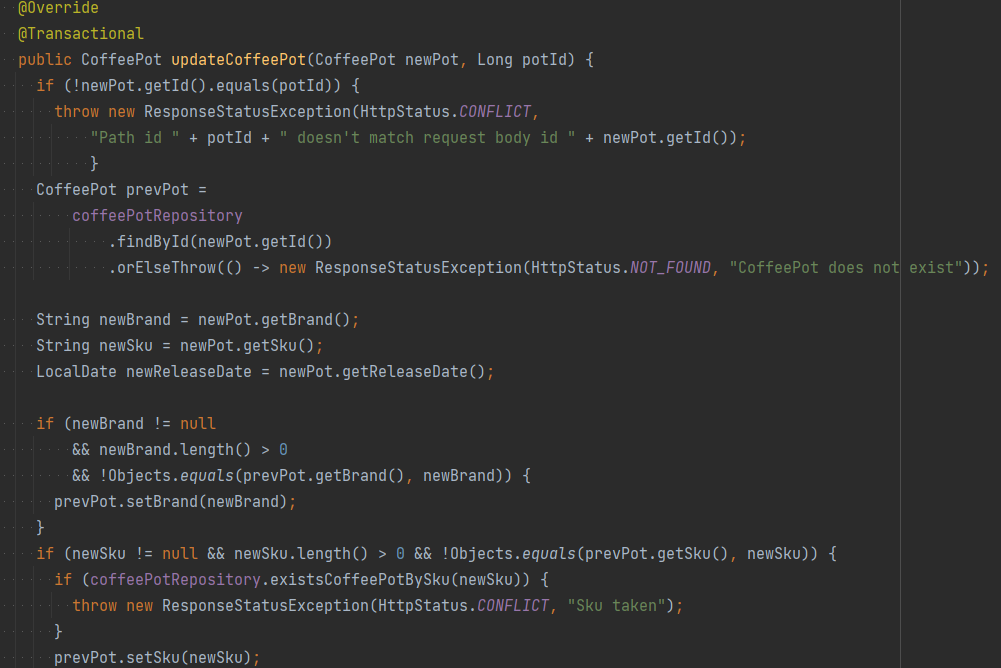
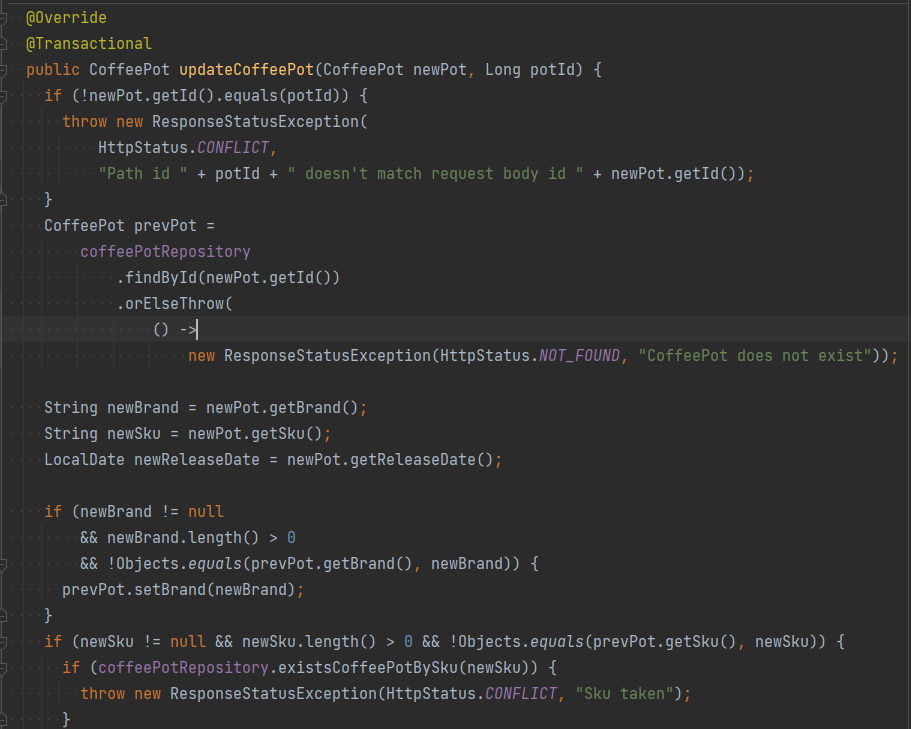
linted

diff --git a/src/main/java/io/example/democoffeepotservicerest/config/DemoData.java b/src/main/java/io/example/democoffeepotservicerest/config/DemoData.java
@@ -15,8 +15,7 @@ import org.springframework.stereotype.Component;
 public class DemoData implements CommandLineRunner {
   int NUM_OF_COFFEEPOTS = 7_500;
 
-  @Autowired
-  private CoffeePotRepository coffeePotRepository;
+  @Autowired private CoffeePotRepository coffeePotRepository;
 
   @Override
   public void run(String... strings) {
@@ -38,7 +37,7 @@ public class DemoData implements CommandLineRunner {
       LocalDate releaseDate = genDate(1995, 2022);
       String sku = brand.charAt(0) + genString(3) + "-" + genAlphaNum(8);
       if (i == 2) sku = "CHAU-7AJZA69G";
-      while(coffeePotRepository.existsCoffeePotBySku(sku)) {
+      while (coffeePotRepository.existsCoffeePotBySku(sku)) {
         sku = brand.charAt(0) + genString(3) + "-" + genAlphaNum(8);
       }
       coffeePots.add(new CoffeePot(brand, sku, releaseDate));
@@ -46,8 +45,21 @@ public class DemoData implements CommandLineRunner {
     coffeePotRepository.saveAll(coffeePots); // Note this skips validation in business logic
   }
 
-  private String[] coffeePotBrands = {"Breville", "Bonavita", "Cuisinart", "Technivorm", "OXO",
-      "Cafe", "Ninja", "Hamilton Beach", "Mr. Coffee", "Keurig", "Mainstays", "Toastmaster", "Crux"};
+  private String[] coffeePotBrands = {
+    "Breville",
+    "Bonavita",
+    "Cuisinart",
+    "Technivorm",
+    "OXO",
+    "Cafe",
+    "Ninja",
+    "Hamilton Beach",
+    "Mr. Coffee",
+    "Keurig",
+    "Mainstays",
+    "Toastmaster",
+    "Crux"
+  };
 
   private LocalDate genDate(int startYear, int endYear) {
     long startDay = LocalDate.of(startYear, 1, 1).toEpochDay();
@@ -59,7 +71,8 @@ public class DemoData implements CommandLineRunner {
   private String genAlphaNum(int stringLength) {
     int zero = 48;
     int z = 122;
-    return new Random().ints(zero, z)
+    return new Random()
+        .ints(zero, z)
         .filter((i) -> (i <= 57 || i >= 65) && (i <= 90 || i >= 97))
         .limit(stringLength)
         .collect(StringBuilder::new, StringBuilder::appendCodePoint, StringBuilder::append)
@@ -70,7 +83,8 @@ public class DemoData implements CommandLineRunner {
   private String genString(int stringLength) {
     int a = 97;
     int z = 122;
-    return new Random().ints(a,z + 1)
+    return new Random()
+        .ints(a, z + 1)
         .limit(stringLength)
         .collect(StringBuilder::new, StringBuilder::appendCodePoint, StringBuilder::append)
         .toString()

diff --git a/src/main/java/io/example/democoffeepotservicerest/coffeepot/CoffeePotServiceImpl.java b/src/main/java/io/example/democoffeepotservicerest/coffeepot/CoffeePotServiceImpl.java
@@ -25,8 +25,8 @@ public class CoffeePotServiceImpl implements CoffeePotService {
   @Override
   public List<CoffeePot> getCoffeePots(CoffeePot coffeePot) {
     try {
-    return coffeePotRepository.findAll(
-        Example.of(coffeePot, ExampleMatcher.matching().withIgnoreCase()));
+      return coffeePotRepository.findAll(
+          Example.of(coffeePot, ExampleMatcher.matching().withIgnoreCase()));
     } catch (Exception e) {
       e.printStackTrace();
       throw new ResponseStatusException(HttpStatus.SERVICE_UNAVAILABLE, "Server is not ready");
@@ -36,8 +36,10 @@ public class CoffeePotServiceImpl implements CoffeePotService {
 
   @Override
   public CoffeePot getCoffeePotById(Long potId) {
-    return coffeePotRepository.findById(potId).orElseThrow(
-        () -> new ResponseStatusException(HttpStatus.NOT_FOUND, "Coffee pot not found"));
+    return coffeePotRepository
+        .findById(potId)
+        .orElseThrow(
+            () -> new ResponseStatusException(HttpStatus.NOT_FOUND, "Coffee pot not found"));
   }
 
   @Override
@@ -62,13 +64,16 @@ public class CoffeePotServiceImpl implements CoffeePotService {
   @Transactional
   public CoffeePot updateCoffeePot(CoffeePot newPot, Long potId) {
     if (!newPot.getId().equals(potId)) {
-      throw new ResponseStatusException(HttpStatus.CONFLICT,
+      throw new ResponseStatusException(
+          HttpStatus.CONFLICT,
           "Path id " + potId + " doesn't match request body id " + newPot.getId());
-          }
+    }
     CoffeePot prevPot =
         coffeePotRepository
             .findById(newPot.getId())
-            .orElseThrow(() -> new ResponseStatusException(HttpStatus.NOT_FOUND, "CoffeePot does not exist"));
+            .orElseThrow(
+                () ->
+                    new ResponseStatusException(HttpStatus.NOT_FOUND, "CoffeePot does not exist"));
 
     String newBrand = newPot.getBrand();
     String newSku = newPot.getSku();

diff --git a/src/main/java/io/example/democoffeepotservicerest/coffeepot/CoffeePot.java b/src/main/java/io/example/democoffeepotservicerest/coffeepot/CoffeePot.java
@@ -3,7 +3,6 @@ package io.example.democoffeepotservicerest.coffeepot;
 import java.time.LocalDate;
 import java.time.Period;
 import java.util.Objects;
-import javax.persistence.Column;
 import javax.persistence.Entity;
 import javax.persistence.GeneratedValue;
 import javax.persistence.GenerationType;
@@ -25,14 +24,14 @@ public class CoffeePot {
   @NotBlank(message = "Brand is required")
   private String brand;
 
-//  @Column(unique = true)
+  //  @Column(unique = true)
   @NotNull(message = "Sku cannot be null")
   @Pattern(
       message = "Sku must match the pattern XXXX-XXXXXXXX alphanumeric",
       regexp = "^[A-Z0-9]{4}-[A-Z0-9]{8}$")
   private String sku;
 
-//  @NotBlank(message = "Release date is required")
+  //  @NotBlank(message = "Release date is required")
 
   @NotNull(message = "Release is required")
   private LocalDate releaseDate;

diff --git a/src/main/java/io/example/democoffeepotservicerest/coffeepot/CoffeePotRepository.java b/src/main/java/io/example/democoffeepotservicerest/coffeepot/CoffeePotRepository.java
@@ -7,7 +7,7 @@ import org.springframework.stereotype.Repository;
 @Repository
 public interface CoffeePotRepository extends JpaRepository<CoffeePot, Long> {
 
-//  Same as @Query("SELECT c FROM CoffeePot WHERE c.sku = ?1")
+  //  Same as @Query("SELECT c FROM CoffeePot WHERE c.sku = ?1")
   Optional<CoffeePot> findCoffeePotBySku(String sku);
 
   Boolean existsCoffeePotBySku(String sku);
